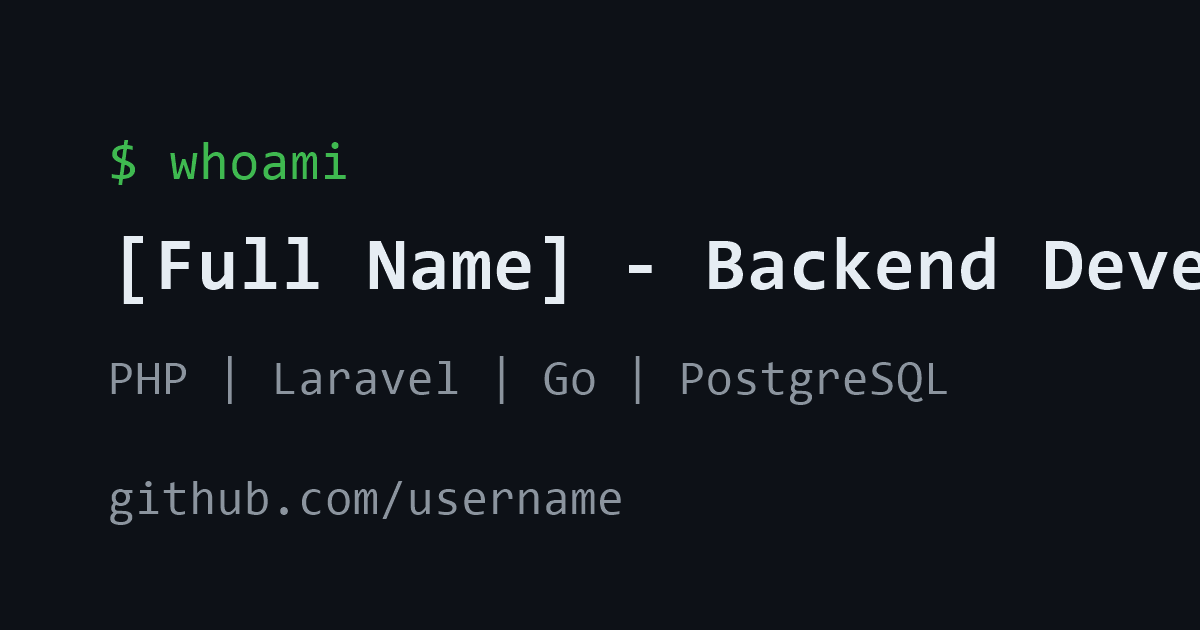
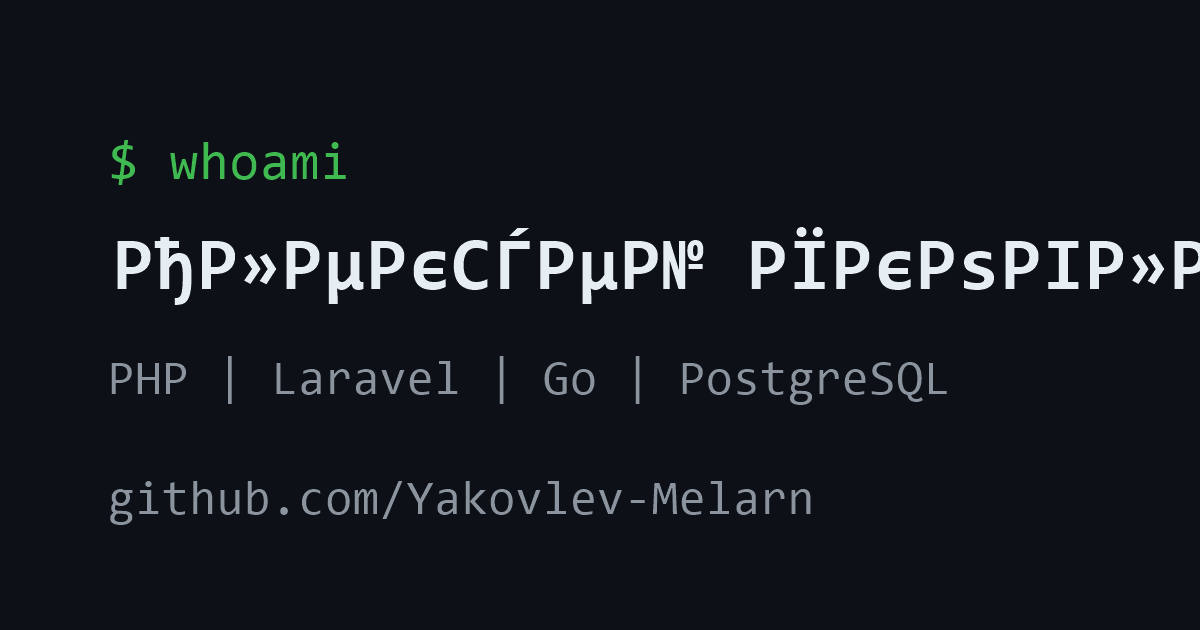
Реальные данные: Алексей Яковлев, email/GitHub/MAX вместо Telegram/LinkedIn, CNAME, OG-изображение, тэглайн про fullstack

Changed region(s): [[0.0925, 0.3619, 1.0, 0.4825], [0.3392, 0.754, 0.6783, 0.8143]]

diff --git a/js/projects.js b/js/projects.js
@@ -1,4 +1,4 @@
-const projects = [
+const projects = [
   {
     id: "project-1",
     title: "E-commerce REST API",
@@ -15,7 +15,7 @@ const projects = [
       "Docker, CI/CD через GitHub Actions",
     ],
     links: {
-      github: "https://github.com/username/project-1",
+      github: "https://github.com/Yakovlev-Melarn/project-1",
       live: "https://example.com",
       docs: "https://docs.example.com",
     },
@@ -36,7 +36,7 @@ const projects = [
       "Метрики Prometheus, трейсинг",
     ],
     links: {
-      github: "https://github.com/username/project-2",
+      github: "https://github.com/Yakovlev-Melarn/project-2",
       docs: "https://docs.example.com",
     },
   },
@@ -55,7 +55,7 @@ const projects = [
       "Работа с несколькими окружениями (dev/stage/prod)",
     ],
     links: {
-      github: "https://github.com/username/project-3",
+      github: "https://github.com/Yakovlev-Melarn/project-3",
     },
   },
   {
@@ -73,7 +73,7 @@ const projects = [
       "Горизонтальное масштабирование через Redis Pub/Sub",
     ],
     links: {
-      github: "https://github.com/username/project-4",
+      github: "https://github.com/Yakovlev-Melarn/project-4",
       live: "https://example.com",
     },
   },
@@ -93,7 +93,7 @@ const projects = [
       "Автотесты ключевых сценариев",
     ],
     links: {
-      github: "https://github.com/username/project-5",
+      github: "https://github.com/Yakovlev-Melarn/project-5",
       live: "https://example.com",
     },
   },
@@ -113,7 +113,7 @@ const projects = [
       "Web-интерфейс с фильтрами и экспортом",
     ],
     links: {
-      github: "https://github.com/username/project-6",
+      github: "https://github.com/Yakovlev-Melarn/project-6",
     },
   },
 ];

diff --git a/index.html b/index.html
@@ -3,11 +3,11 @@
   <head>
     <meta charset="utf-8">
     <meta name="viewport" content="width=device-width, initial-scale=1">
-    <title>[Имя Фамилия] — Backend Developer</title>
+    <title>Алексей Яковлев — Backend Developer</title>
     <meta name="description" content="Портфолио бэкенд-разработчика. PHP, Laravel, Go, PostgreSQL. REST API, микросервисы, CI/CD.">
     <meta name="keywords" content="backend developer, PHP, Laravel, Go, API, portfolio">
-    <meta name="author" content="[Имя Фамилия]">
-    <meta property="og:title" content="[Имя Фамилия] — Backend Developer">
+    <meta name="author" content="Алексей Яковлев">
+    <meta property="og:title" content="Алексей Яковлев — Backend Developer">
     <meta property="og:description" content="Портфолио бэкенд-разработчика">
     <meta property="og:image" content="assets/og-image.png">
     <meta property="og:type" content="website">
@@ -30,7 +30,7 @@
     <div id="view-landing" class="landing">
       <header class="land-hero">
         <span class="land-badge"><span class="land-badge-dot"></span><span id="land-badge-text"></span></span>
-        <img src="assets/avatar.svg" alt="Фото [Имя Фамилия]" class="land-avatar">
+        <img src="assets/avatar.svg" alt="Фото Алексея Яковлева" class="land-avatar">
         <h1 class="land-name" id="land-name"></h1>
         <p class="land-role" id="land-role"></p>
         <p class="land-tagline" id="land-tagline"></p>

diff --git a/js/data.js b/js/data.js
@@ -1,7 +1,7 @@
 const Profile = {
-  name: "[Имя Фамилия]",
+  name: "Алексей Яковлев",
   role: "Backend Developer",
-  tagline: "Строю «моторный отсек» веб-сервисов: быстро, надёжно и так, чтобы команде было легко работать",
+  tagline: "Строю «моторный отсек» веб-сервисов: быстро, надёжно и так, чтобы команде было легко работать. Fullstack — по вызову.",
   spec: "PHP / Laravel / API / PostgreSQL",
   location: "Россия, удалённо",
   years: "5+",
@@ -19,13 +19,16 @@ const Profile = {
     "Работа с требованиями и оценка задач",
   ],
   contacts: [
-    { label: "Email", display: "your@email.com", url: "mailto:your@email.com" },
-    { label: "GitHub", display: "github.com/username", url: "https://github.com/username" },
-    { label: "Telegram", display: "@username", url: "https://t.me/username" },
+    { label: "Email", display: "melarn4u@gmail.com", url: "mailto:melarn4u@gmail.com" },
     {
-      label: "LinkedIn",
-      display: "linkedin.com/in/username",
-      url: "https://linkedin.com/in/username",
+      label: "GitHub",
+      display: "github.com/Yakovlev-Melarn",
+      url: "https://github.com/Yakovlev-Melarn",
+    },
+    {
+      label: "MAX",
+      display: "написать",
+      url: "https://max.ru/u/f9LHodD0cOIf66THihNKfyjj5YcGpWTGEcb1CS52kbDkh5sfsXsoB-83Gl4",
     },
   ],
 };

diff --git a/README.md b/README.md
@@ -72,12 +72,10 @@ npm run build
 
 ## Перед публикацией
 
-- Замените плейсхолдеры `[Имя Фамилия]` в `index.html` и `js/data.js`
-- Заполните контакты в `js/data.js` (`Profile.contacts`)
-- **Лендинг (HR-вид):** отредактируйте `Profile.tagline`, `Profile.about`, `Profile.softSkills`, `PlainSkills`, а также `summary`/`plainBullets` у каждой позиции в `Experience` и `plain`/`result` у проектов в `js/projects.js` — весь «человеческий» текст живёт в данных, а не в разметке
+- **Лендинг (HR-вид):** отредактируйте «человеческий» текст под себя: `Profile.about`, `Profile.softSkills`, `PlainSkills`, `summary`/`plainBullets` у каждой позиции в `Experience` и `plain`/`result` у проектов в `js/projects.js` — весь текст живёт в данных, а не в разметке
+- Замените 6 плейсхолдеров в `js/projects.js` на реальные проекты (включая ссылки в `links`)
 - Замените плейсхолдер-аватар `assets/avatar.svg` на реальное фото (SVG или PNG, ~240×240)
-- Замените 6 плейсхолдеров в `js/projects.js` на реальные проекты
-- Укажите свой домен в `CNAME` и имя в `assets/og-image.png`
+- При смене имени/стека пересоберите `assets/og-image.png`
 
 ## Деплой
 
